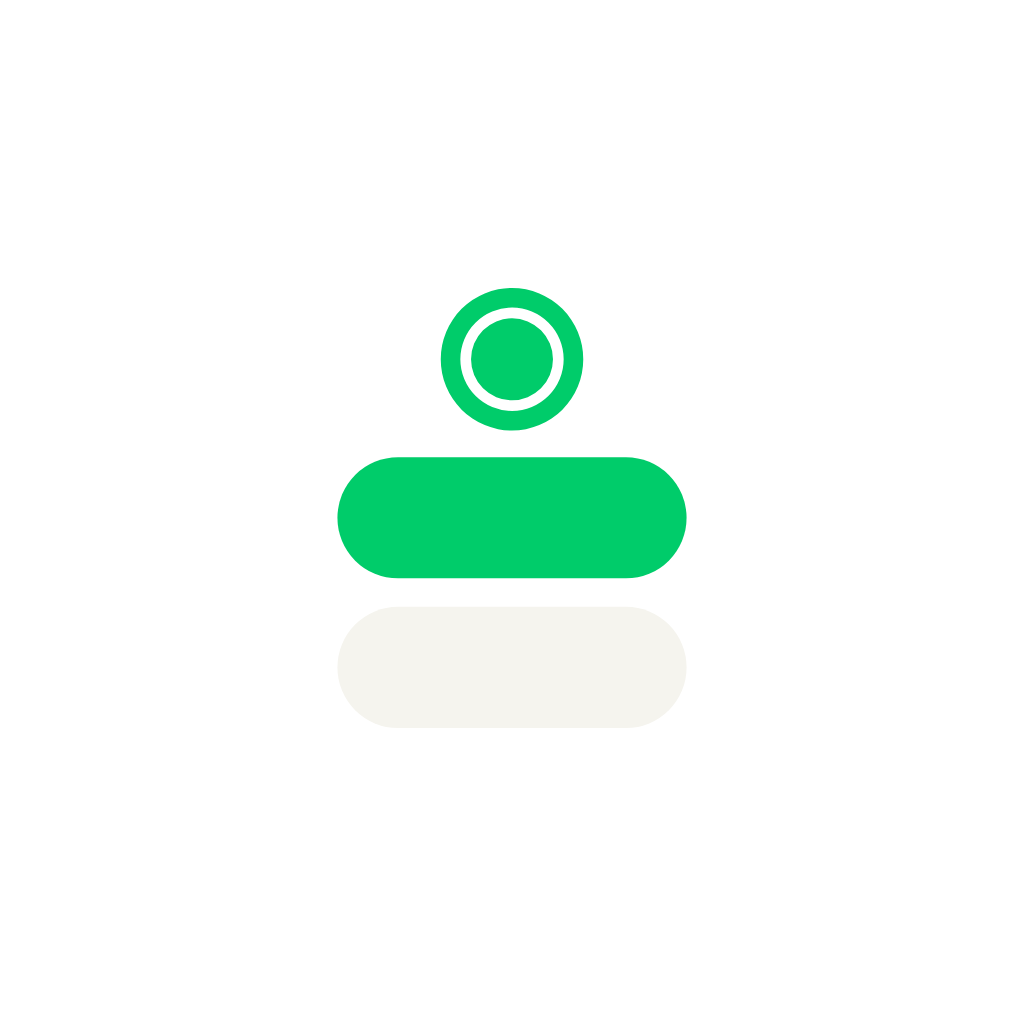
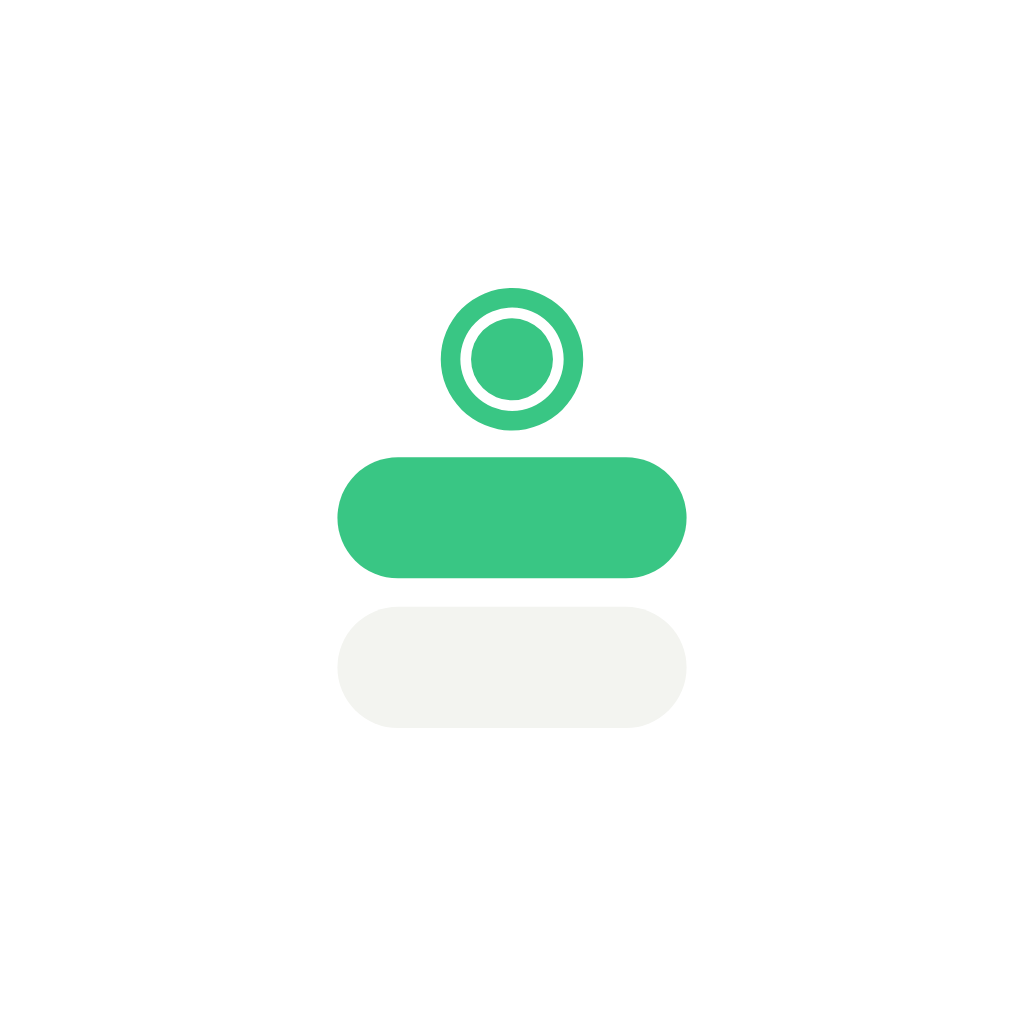
style(theme): Evergreen palette — calmer emerald on sage neutrals
The accent drops from full-saturation neon (#00CC6A) to a calmer emerald;
expense red becomes a soft brick (light) and coral (dark) so lists stop
reading as alarms; neutrals move from olive-brown to a faint sage family so
paper, ink and charcoal read as one material. Every text colour still clears
WCAG AA on the layers it sits on. Icon, splash, notification accent and
launcher-shortcut icons follow the new values.

Changed region(s): [[0.3125, 0.2812, 0.6875, 0.5625]]

diff --git a/src/theme/colors.ts b/src/theme/colors.ts
@@ -52,72 +52,72 @@ export type ThemePalette = {
   info: string;
 };
 
-// Polished around the original identity: lime brand, warm paper, ink.
-// Neutrals share one warm hue so layers read as the same material at
-// different depths; each dark layer steps ~4% lightness for even separation.
+// Evergreen: one calm emerald on sage-tinted neutrals. Every neutral shares a faint green hue so
+// paper, ink and charcoal read as the same material, and the accent never has to shout. Accents
+// are de-saturated from pure neon; each text colour clears WCAG AA on the layers it sits on.
 
 export const DARK_THEME: ThemePalette = {
-  background: '#131311',
-  card: '#2C2B27',
-  surface: '#1E1D1A',
-  tabBarBackground: '#262521',
+  background: '#111412',
+  card: '#262B28',
+  surface: '#191D1B',
+  tabBarBackground: '#202422',
 
-  primary: '#00CC6A',
-  primaryLight: '#0B2E1D',
-  primaryDark: '#00A857',
-  primaryInk: '#2EDB85',
-  primaryForeground: '#0A0A08',
-  secondary: '#EDEBE4',
+  primary: '#39C684',
+  primaryLight: '#193427',
+  primaryDark: '#2BA16E',
+  primaryInk: '#66CC99',
+  primaryForeground: '#0A0D0B',
+  secondary: '#E8EAE6',
 
   onInk: '#FFFFFF',
   onInkMuted: 'rgba(255, 255, 255, 0.62)',
-  onInkAccent: '#00CC6A',
+  onInkAccent: '#39C684',
   onColor: '#FFFFFF',
 
-  text: '#EDEBE4',
-  textMuted: '#9C9A92',
+  text: '#E8EAE6',
+  textMuted: '#9AA19C',
 
-  border: '#34332E',
+  border: '#303532',
 
-  success: '#34C97A',
-  danger: '#FF6159',
-  warning: '#F2C66D',
-  info: '#6AB0F0',
+  success: '#59C08C',
+  danger: '#E87C73',
+  warning: '#E0BB7B',
+  info: '#85AFE0',
 };
 
 export const LIGHT_THEME: ThemePalette = {
-  background: '#F5F4EE',
-  card: '#ECEBE4',
+  background: '#F3F4F0',
+  card: '#E9EBE6',
   surface: '#FFFFFF',
-  tabBarBackground: '#161612',
+  tabBarBackground: '#151917',
 
-  primary: '#00CC6A',
-  primaryLight: '#D3F6E3',
-  primaryDark: '#00A857',
-  primaryInk: '#00824A',
-  primaryForeground: '#0A0A08',
-  secondary: '#161612',
+  primary: '#1FB270',
+  primaryLight: '#DBF0E5',
+  primaryDark: '#18915E',
+  primaryInk: '#146B4A',
+  primaryForeground: '#0A0D0B',
+  secondary: '#151917',
 
   onInk: '#FFFFFF',
   onInkMuted: 'rgba(255, 255, 255, 0.62)',
-  onInkAccent: '#00CC6A',
+  onInkAccent: '#39C684',
   onColor: '#FFFFFF',
 
-  text: '#161612',
-  textMuted: '#6B6962',
+  text: '#171A18',
+  textMuted: '#686D68',
 
-  border: '#E2E0D8',
+  border: '#DFE2DC',
 
-  success: '#16945A',
-  danger: '#D93D34',
-  warning: '#A86F00',
-  info: '#1765AB',
+  success: '#1D7C50',
+  danger: '#BA4136',
+  warning: '#8F5C0F',
+  info: '#2E669E',
 };
 
 export type ThemeColors = ThemePalette;
 
 // kLimeBlack — fixed contrast color for text/icons rendered on top of the lime
-// primary (#00CC6A). Lime is always vivid/bright so this stays dark regardless of theme.
+// primary emerald. The accent is always bright enough that this stays dark regardless of theme.
 export const PICKER_CONTRAST_COLOR = '#0A0A0A';
 
 export type HeroCardPalette = {
